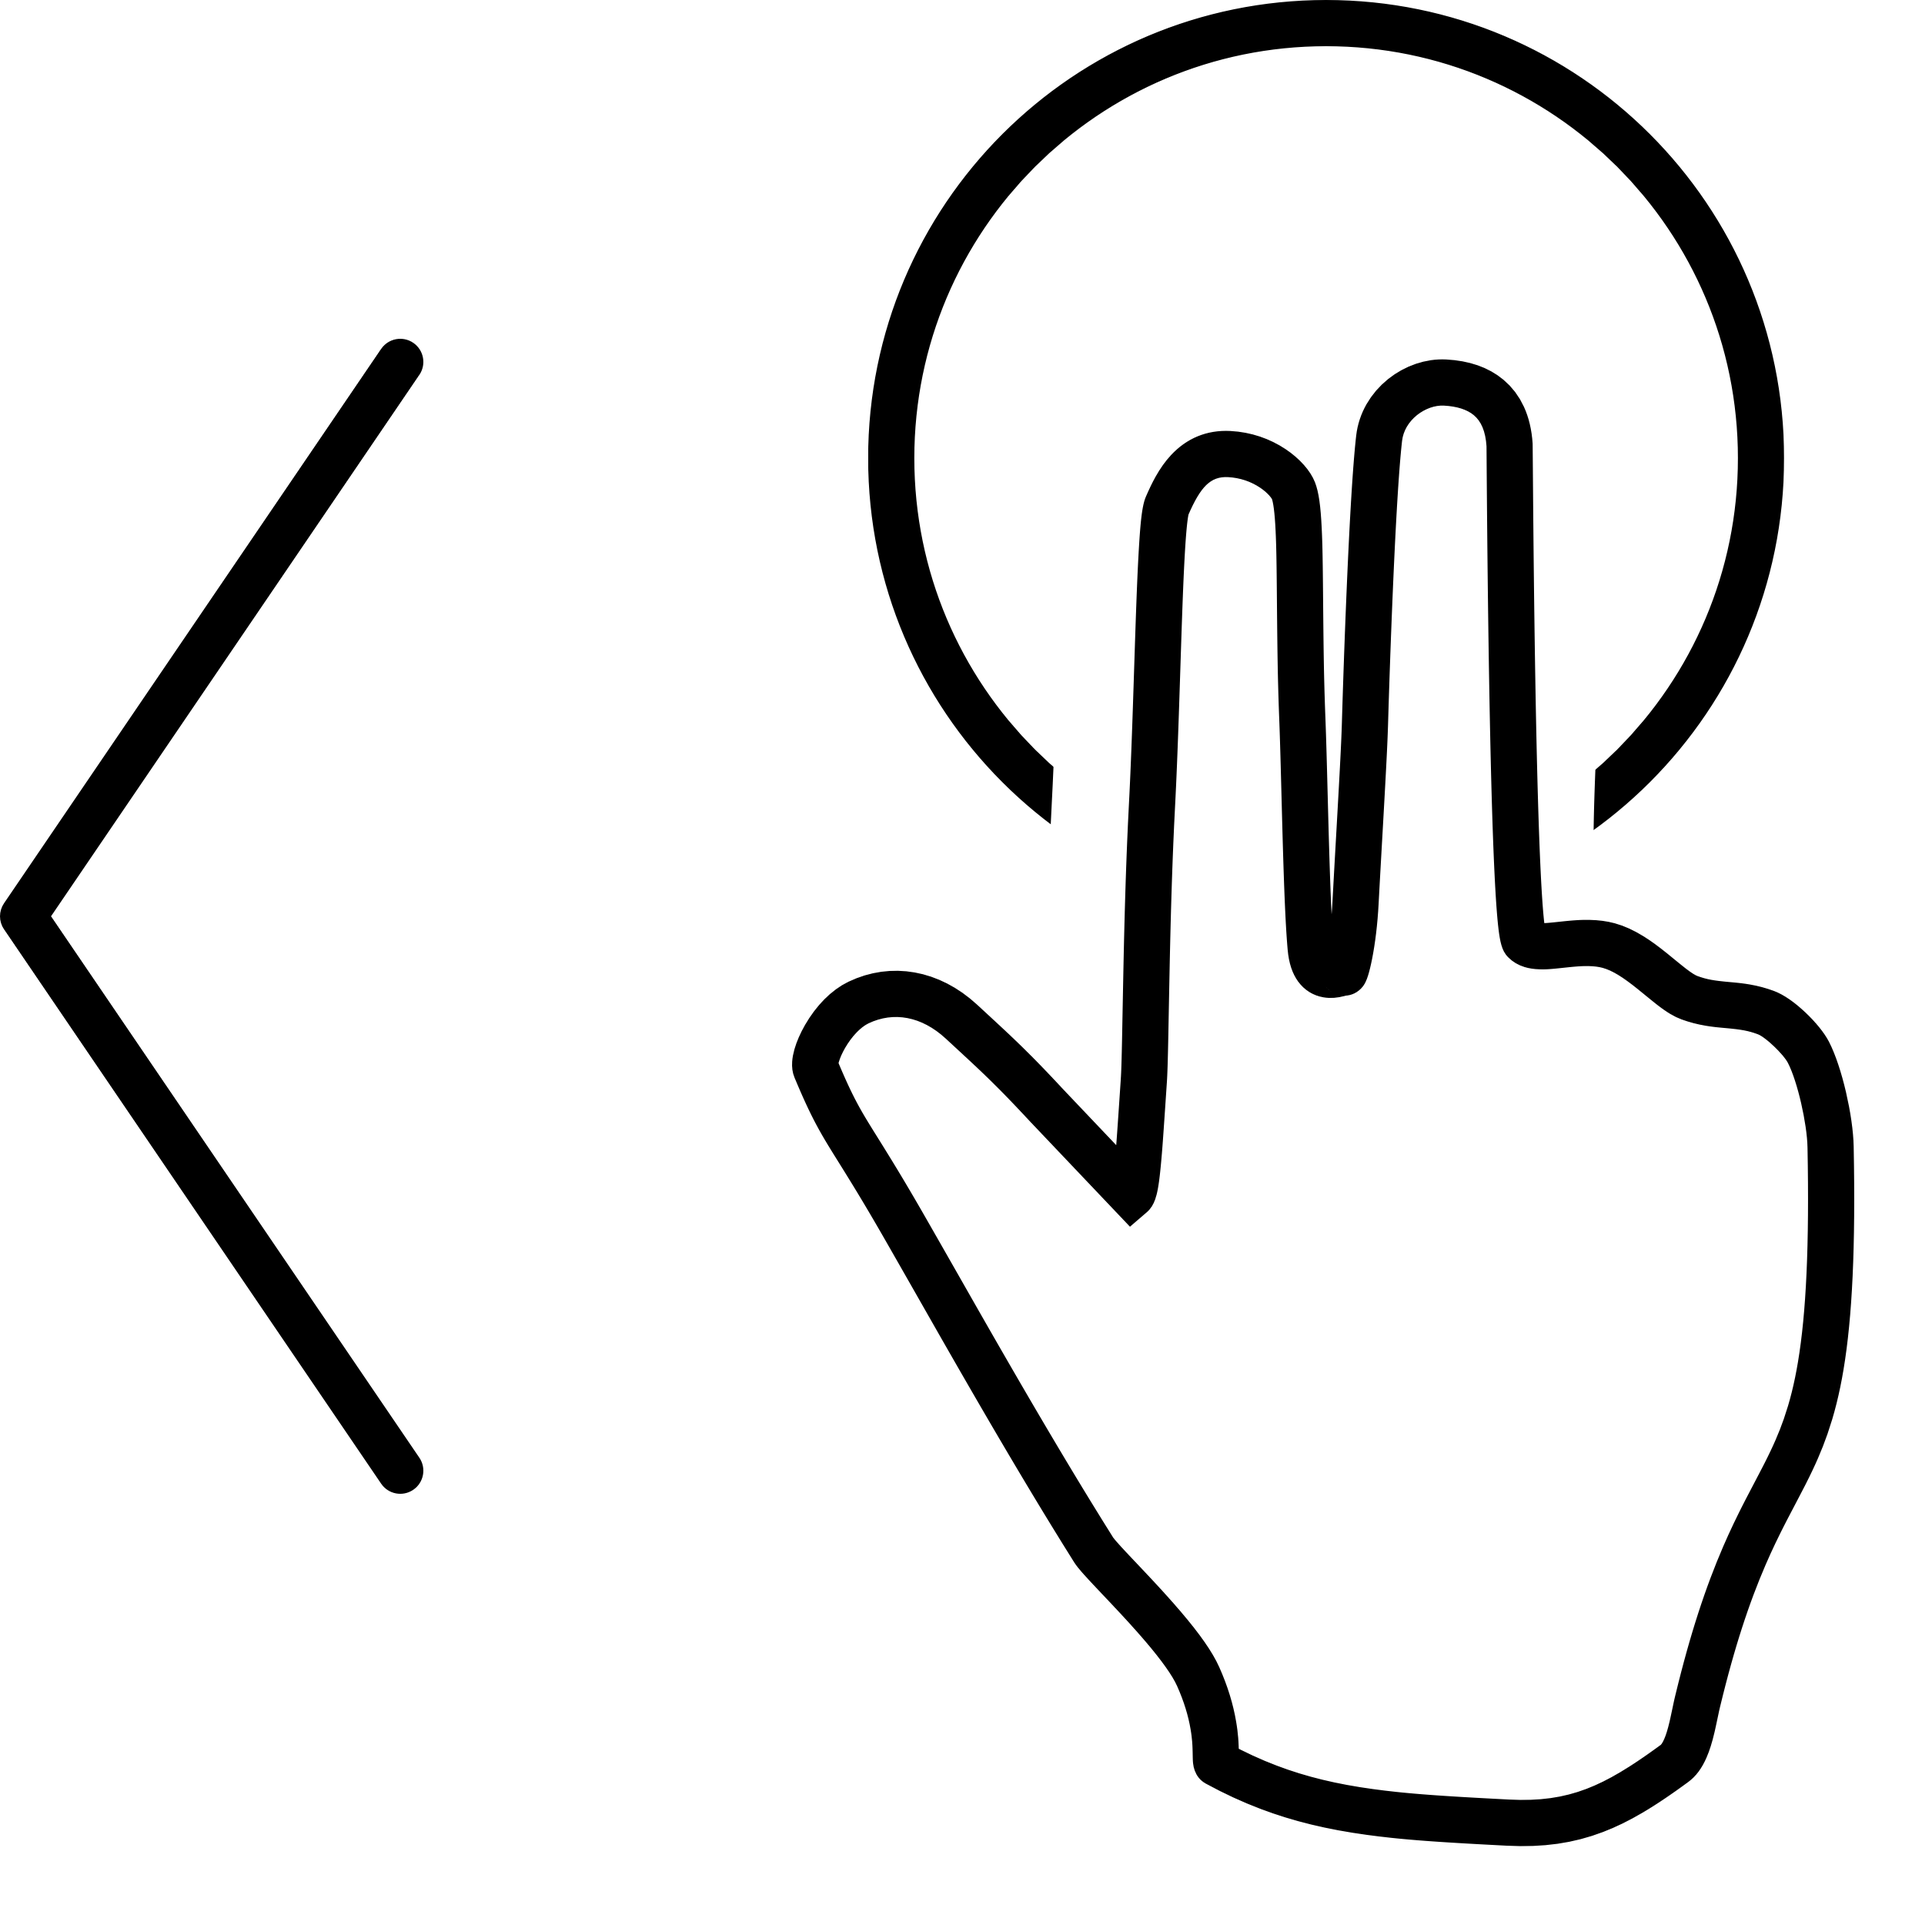
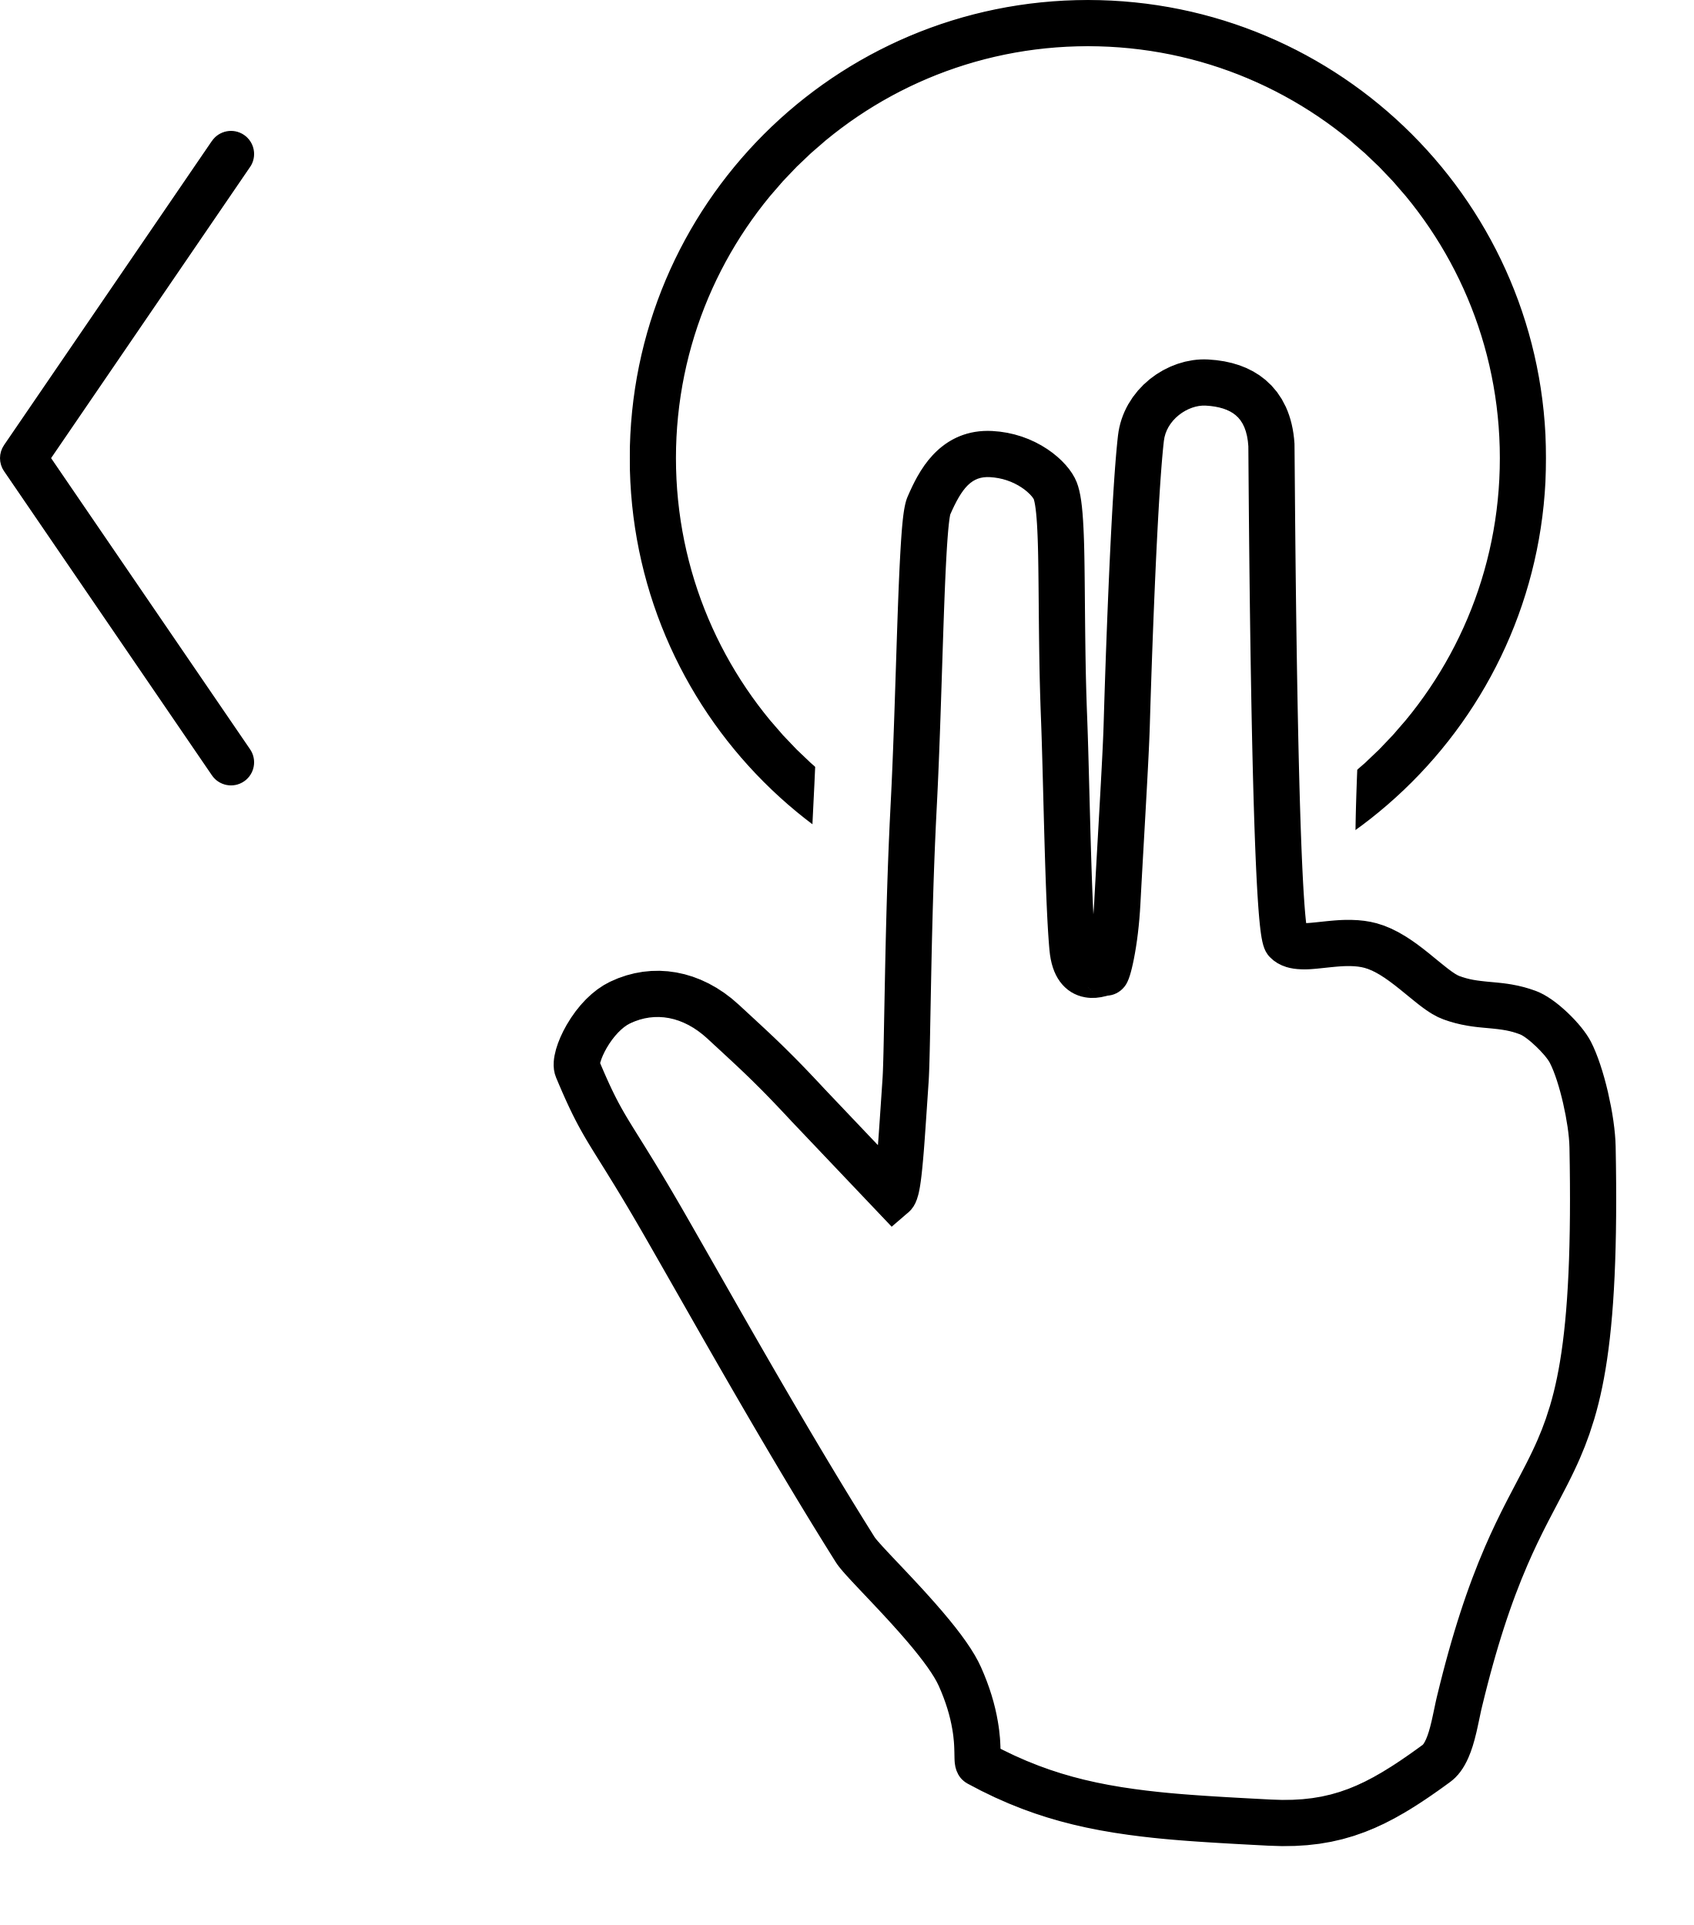
smaller higher chevron R and L.webp

Changed region(s): [[0.3091, 0.0, 0.9582, 0.9672], [0.0, 0.0624, 0.2164, 0.78]]

diff --git a/index.css b/index.css
@@ -281,6 +281,11 @@ img.rdt1 {
         height: 3.5vh;
         opacity: .45;
     }
+    img.next, img.prev {
+        height: 5vh;
+        padding: 2vw;
+    }
+
     img.datar {
         width: 55vw;
     }

diff --git a/index.html b/index.html
@@ -108,7 +108,7 @@
 					<a id="fwd" href="#coffee"><img class="next" src="R.webp"></a>
 				</div>
 			</div>
-		</div>
+		</div>	
 
 
 
